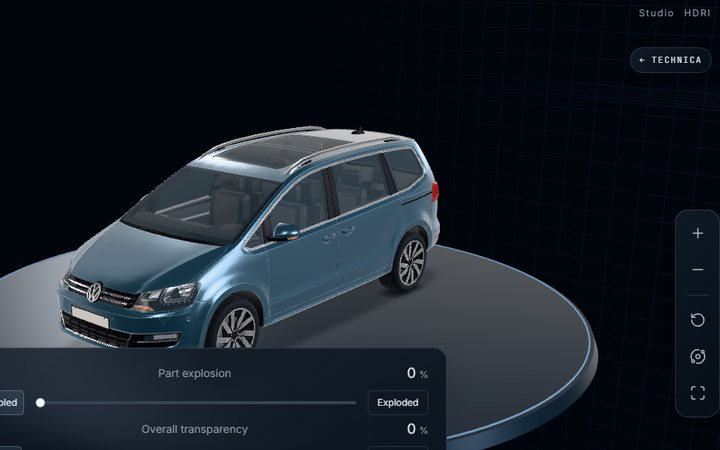
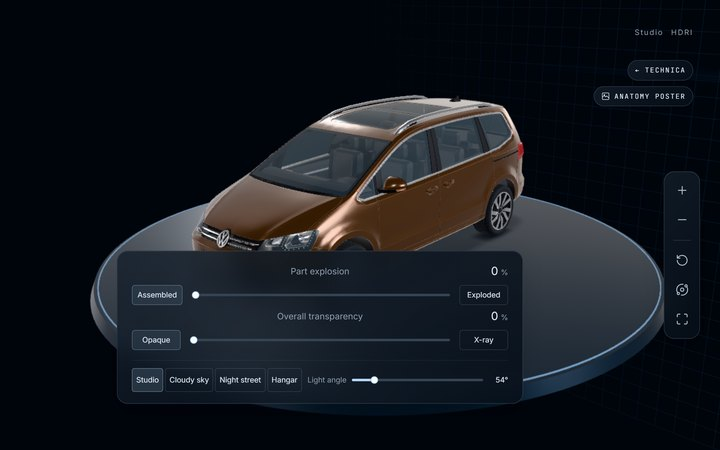
Open the X4 in Alpine White and the Sharan in Toffee Brown
Both studios booted in the paint their source mesh happened to carry, a
near-identical steel blue, which no longer matched the anatomy posters
or told the two cars apart on the hub. Each now opens on a colour it was
actually sold in and that its poster shows: Alpine White for the F26,
Toffee Brown Metallic for the 7N.

Only the initial state changes - every swatch, including the as-modelled
blue, is still one click away.

Studio card shots re-taken over CDP at 2x so the hub matches, framed and
cropped like the existing R32 and GT3 RS captures.

diff --git a/sharan-studio.js b/sharan-studio.js
@@ -28,6 +28,7 @@ bootStudio({
   brand: 'VOLKSWAGEN', title: 'SHARAN', badge: '7N', subtitle: '2012 · Seven seats · 3D Studio', loadingLabel: 'Volkswagen Sharan 7N',
   modelUrl: 'assets/sharan/sharan-7n.glb', environmentRoot: 'assets/studio/environments/',
   groups: GROUPS, paints: PAINTS, partMode: 'mesh', alignTyres: 'Tire rubber', glassGroups: ['glass'],
+  initialState: { paint: 6 },   // open in Toffee Brown Metallic, matching the anatomy poster
   footnote: '7N reference · Visual disassembly',
   credit: 'Model: converted GTA mod (Victor / SQUIR) + original cabin, see <a href="assets/sharan/NOTICES.md" target="_blank" rel="noreferrer">notices</a> · <a href="https://polyhaven.com/hdris" target="_blank" rel="noreferrer">HDRIs: Poly Haven (CC0)</a>',
   camera: { position: [6.3, 3.5, 7.4], target: [0, .85, 0] },

diff --git a/x4-studio.js b/x4-studio.js
@@ -28,6 +28,7 @@ bootStudio({
   brand: 'BMW', title: 'X4', badge: 'F26', subtitle: '2016 · xDrive20i · 3D Studio', loadingLabel: 'BMW X4 F26',
   modelUrl: 'assets/x4/x4-f26-2016.glb', environmentRoot: 'assets/studio/environments/',
   groups: GROUPS, paints: PAINTS, partMode: 'mesh', alignTyres: 'X4 Textured Tire', glassGroups: ['glass'],
+  initialState: { paint: 1 },   // open in Alpine White, matching the anatomy poster
   footnote: 'F26 reference · Visual disassembly',
   credit: 'Model: converted GTA mod (Santa Claus | MTA CAR), see <a href="assets/x4/NOTICES.md" target="_blank" rel="noreferrer">notices</a> · <a href="https://polyhaven.com/hdris" target="_blank" rel="noreferrer">HDRIs: Poly Haven (CC0)</a>',
   camera: { position: [6.1, 3.4, 7.1], target: [0, .82, 0] },

diff --git a/sharan-studio.html b/sharan-studio.html
@@ -43,7 +43,7 @@
   <noscript><div class="gt3-error" role="alert"><p>The 3D studio needs JavaScript and WebGL to run.</p></div></noscript>
 </main>
 
-<script type="module" src="sharan-studio.js?v=3"></script>
+<script type="module" src="sharan-studio.js?v=4"></script>
 <script src="anatomy-poster.js?v=1" defer></script>
 </body>
 </html>

diff --git a/x4-studio.html b/x4-studio.html
@@ -43,7 +43,7 @@
   <noscript><div class="gt3-error" role="alert"><p>The 3D studio needs JavaScript and WebGL to run.</p></div></noscript>
 </main>
 
-<script type="module" src="x4-studio.js?v=2"></script>
+<script type="module" src="x4-studio.js?v=3"></script>
 <script src="anatomy-poster.js?v=1" defer></script>
 </body>
 </html>
